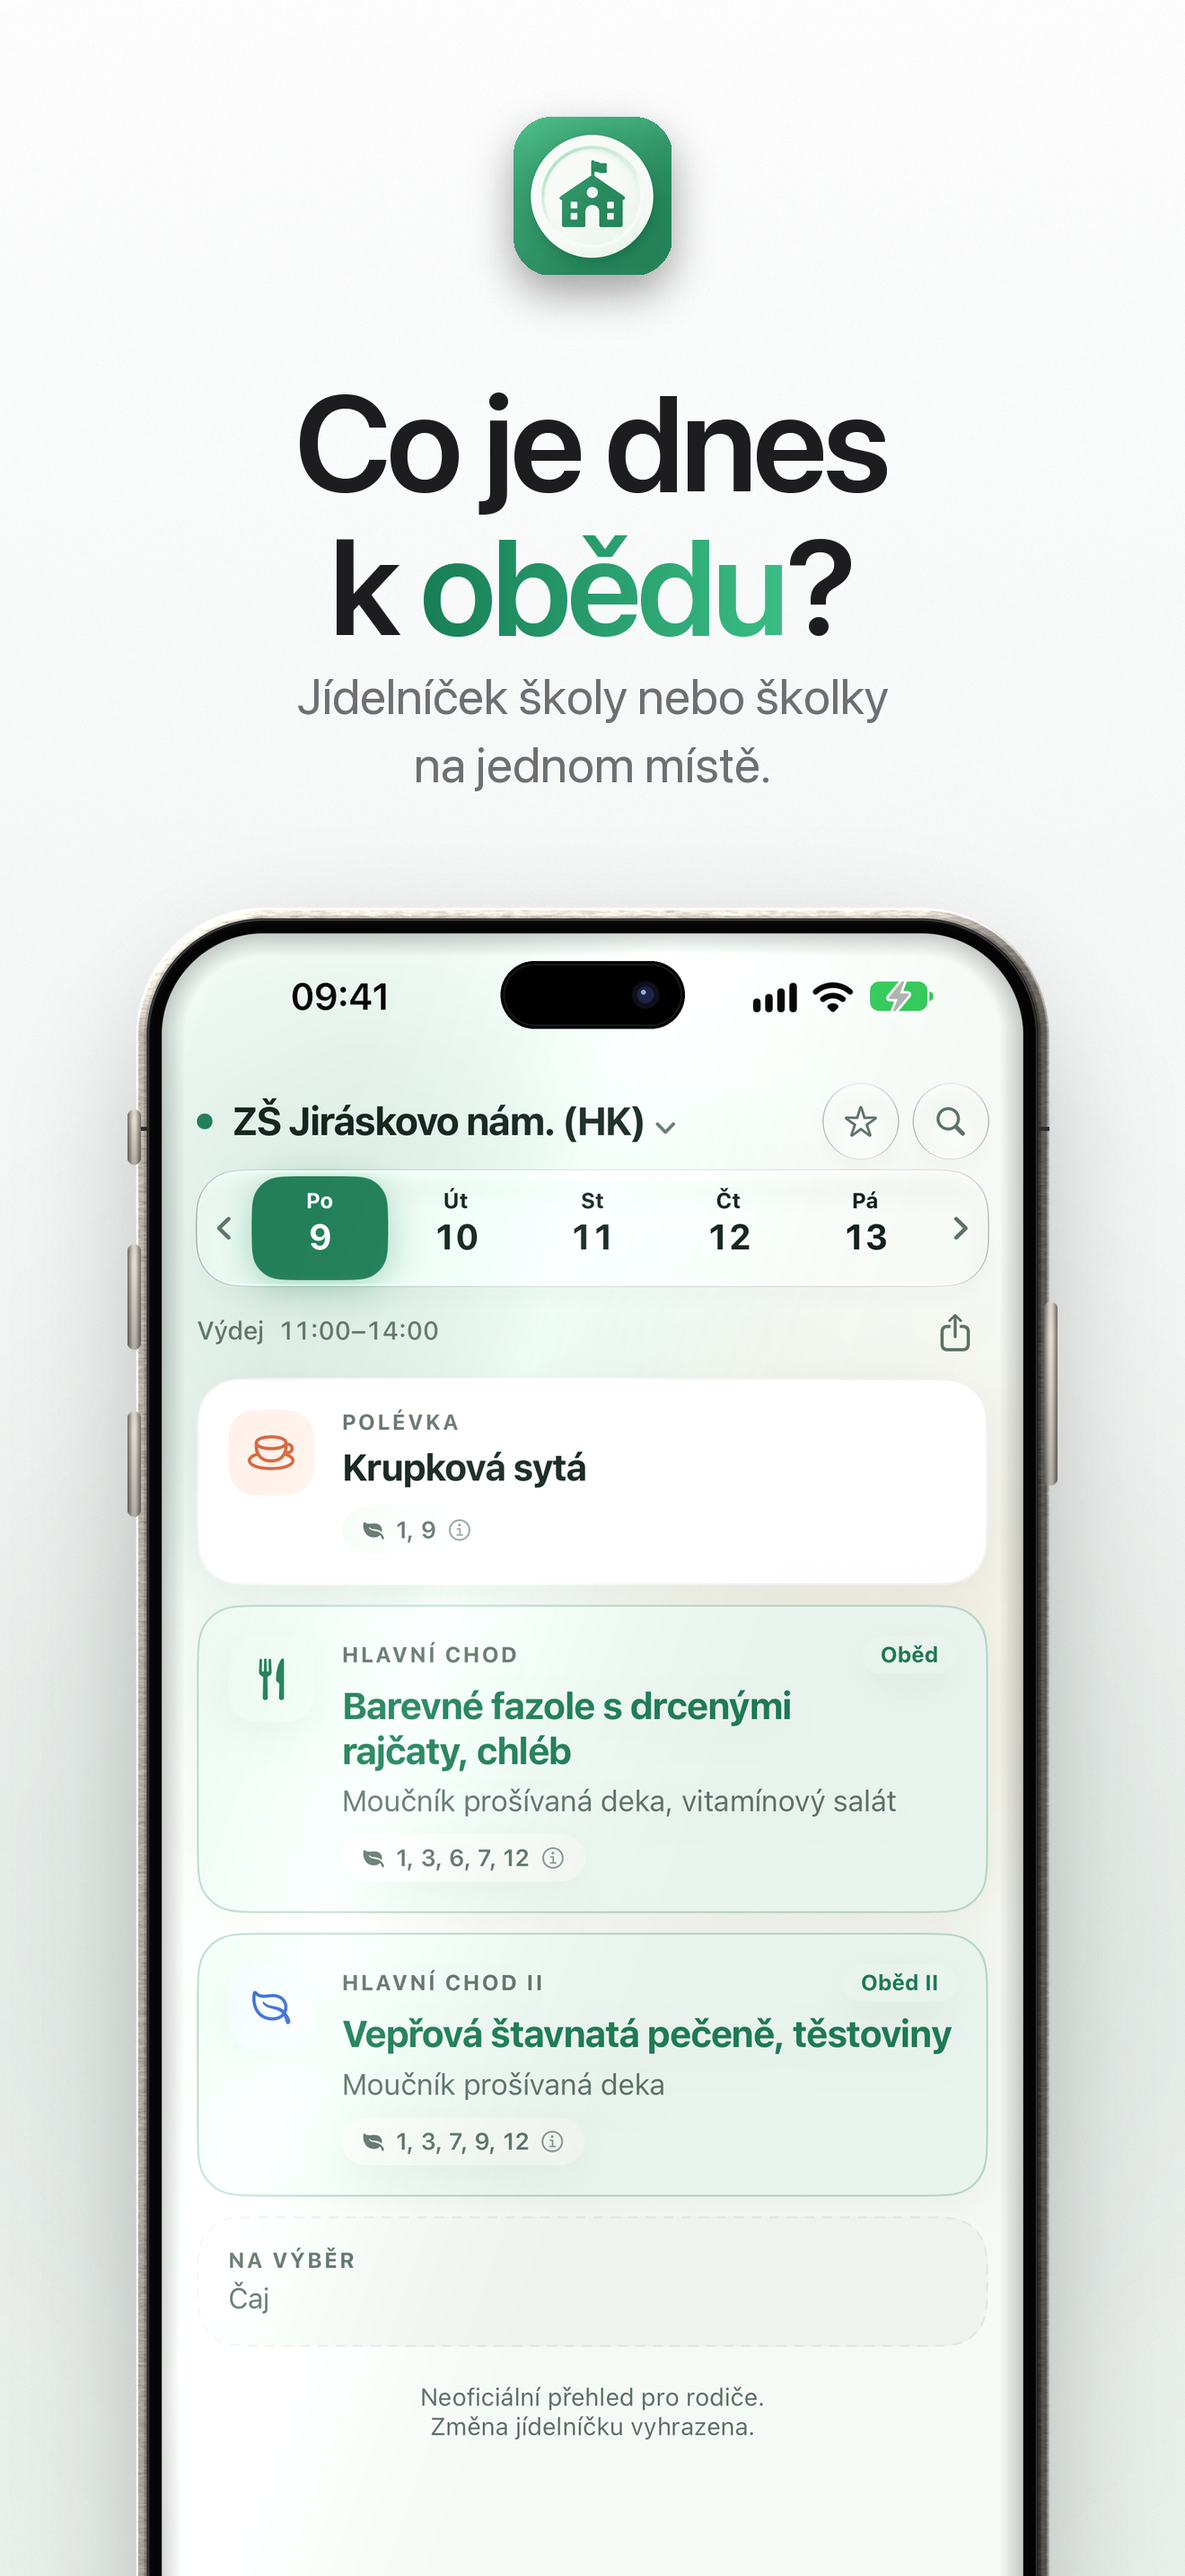
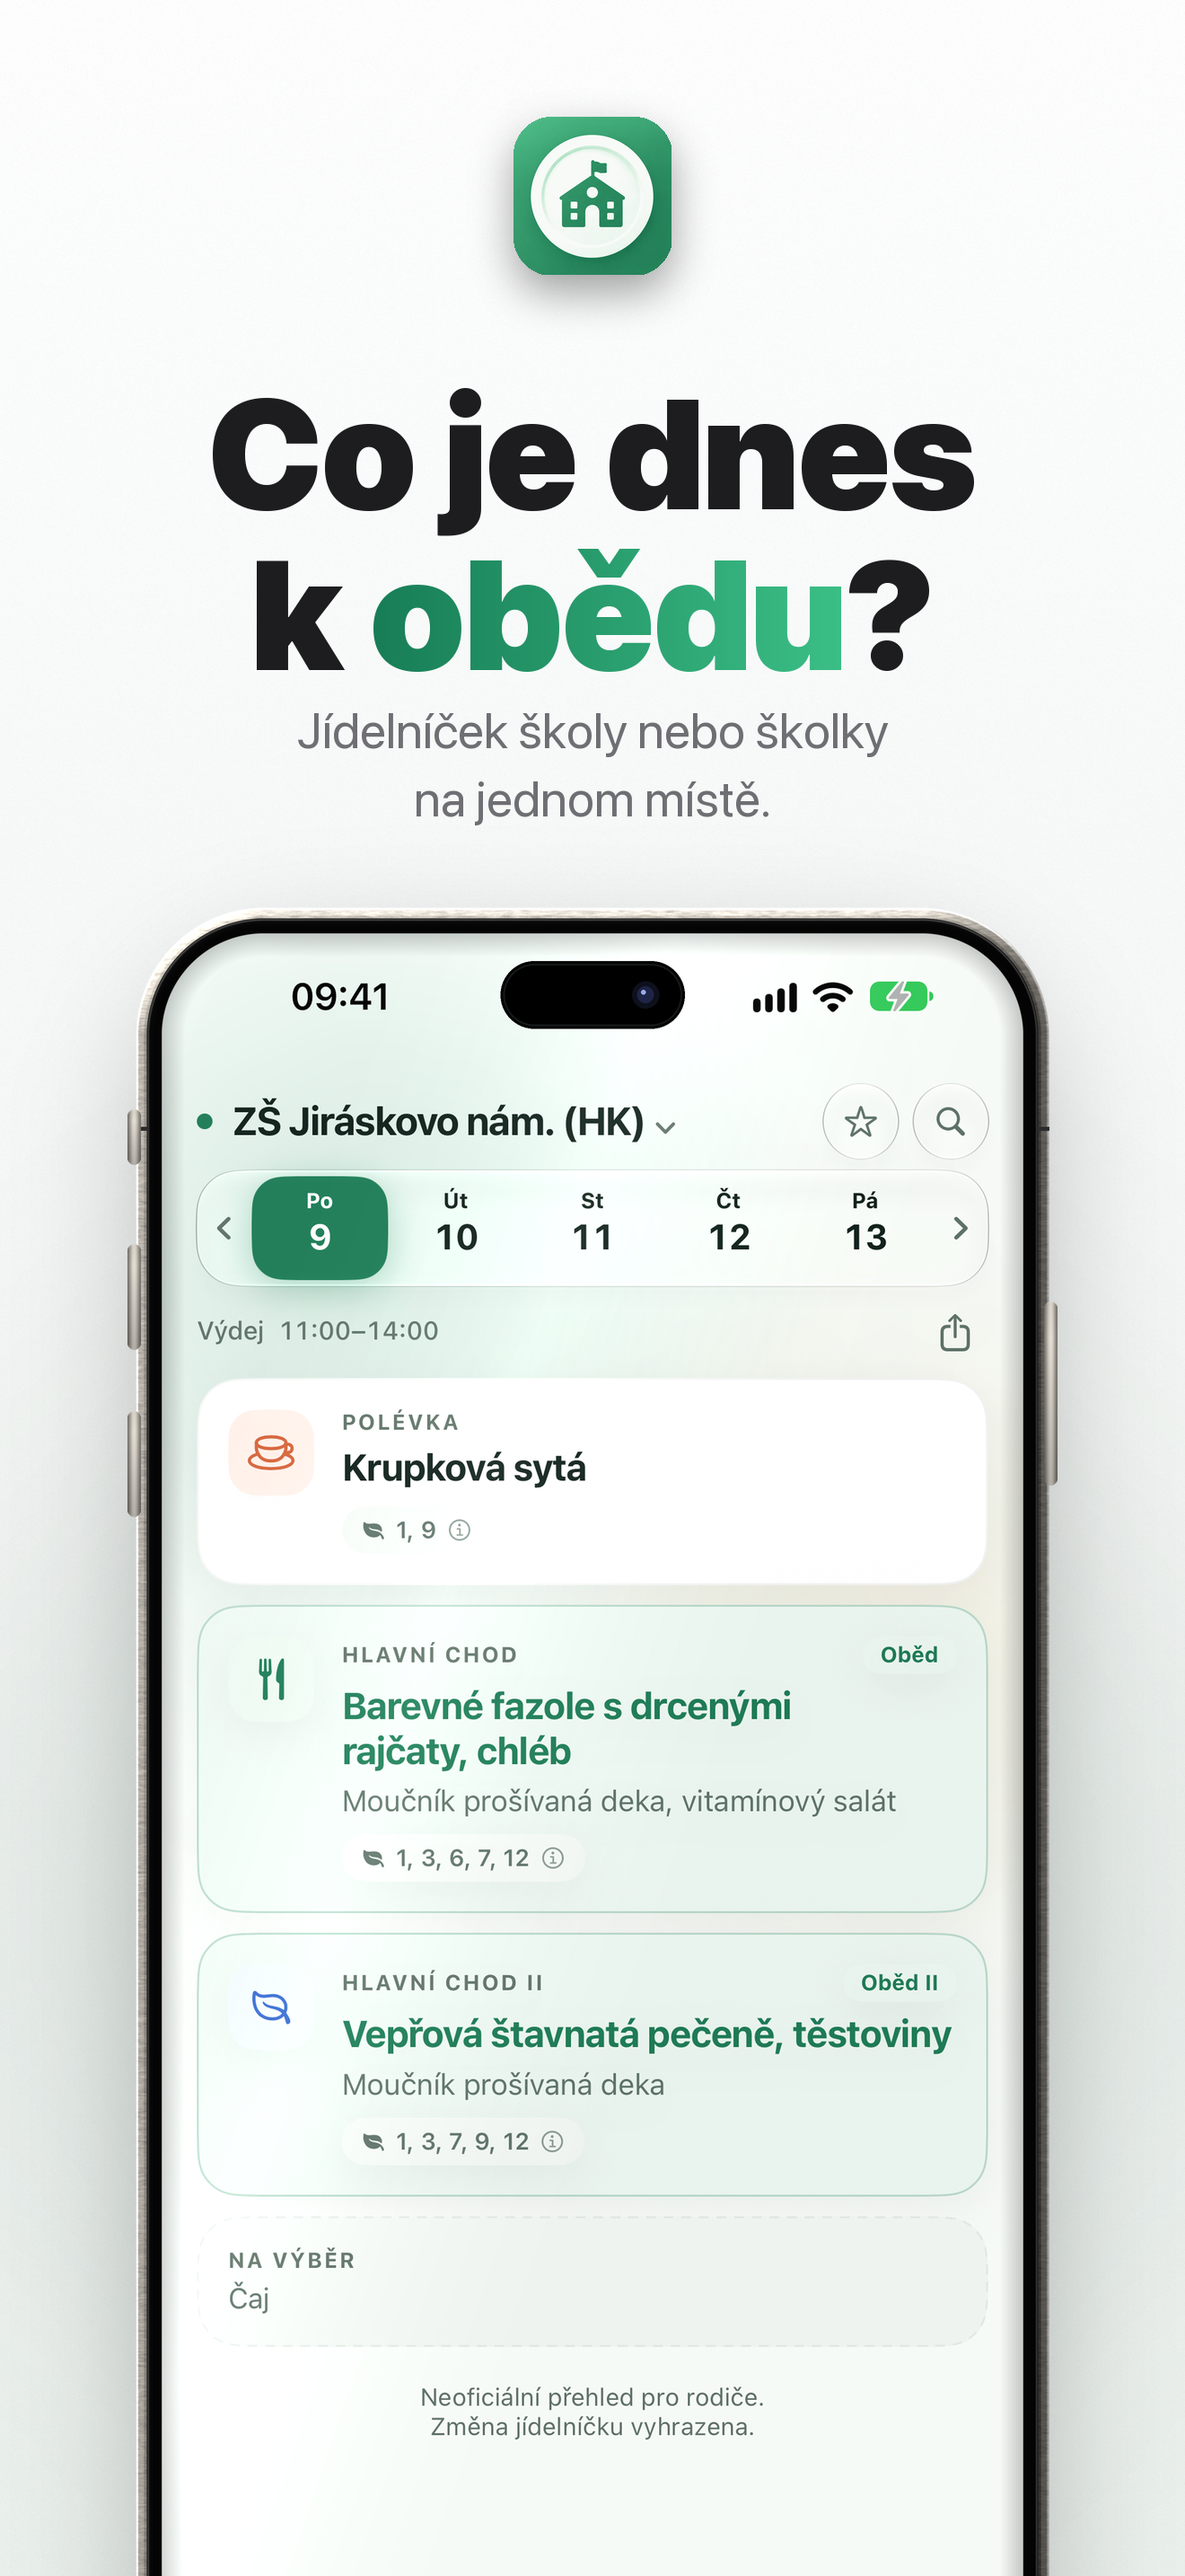
Minimalistické sady: nadpisy v SF Pro Black (silnější, větší)

Changed region(s): [[0.1553, 0.1552, 0.8386, 0.3414]]

diff --git a/tools/make-screenshots-minimal.py b/tools/make-screenshots-minimal.py
@@ -125,11 +125,15 @@ def slide(st, jmeno, eyebrow, nadpis, podnadpis, tmave):
         d = ImageDraw.Draw(pl)
         for ch in eyebrow:
             d.text((x, 170), ch, font=f, fill=st["eyebrow"] + (255,)); x += d.textlength(ch, font=f) + 8
-        y = 270
-    fn = bar.pismo(152, "Semibold")
+        y = 262
+    vel = 172
+    plain = [r.replace("{", "").replace("}", "") for r in nadpis.split("\n")]
+    while max(sirka_radku(r, bar.pismo(vel, "Black"), -5) for r in plain) > W - 140:
+        vel -= 4
+    fn = bar.pismo(vel, "Black")
     for radek in nadpis.split("\n"):
-        pl = kresli_radek(pl, y, radek, fn, st)
-        y += 160
+        pl = kresli_radek(pl, y, radek, fn, st, track=-1)
+        y += round(vel * 1.04)
     d = ImageDraw.Draw(pl)
     fp = bar.pismo(56, "Regular")
     y += 20
